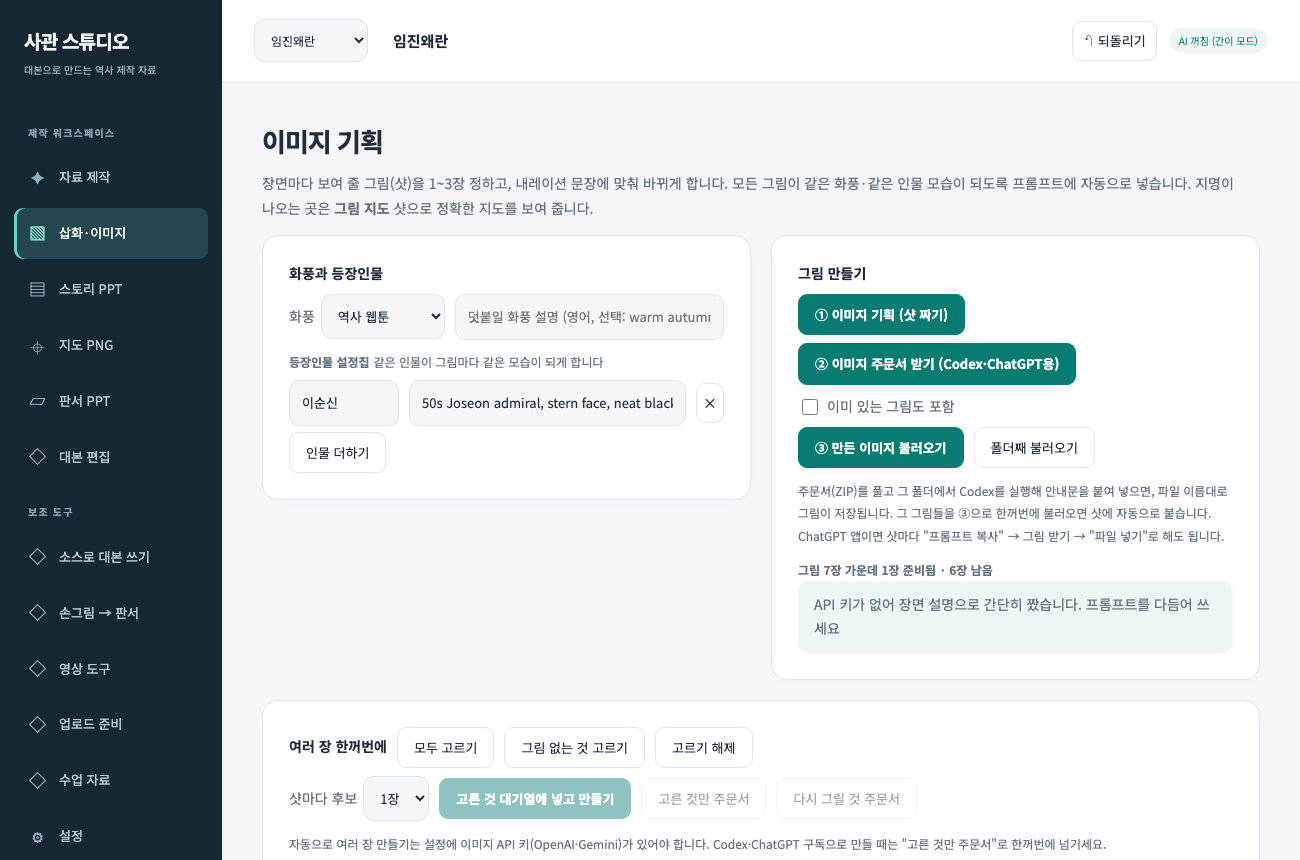
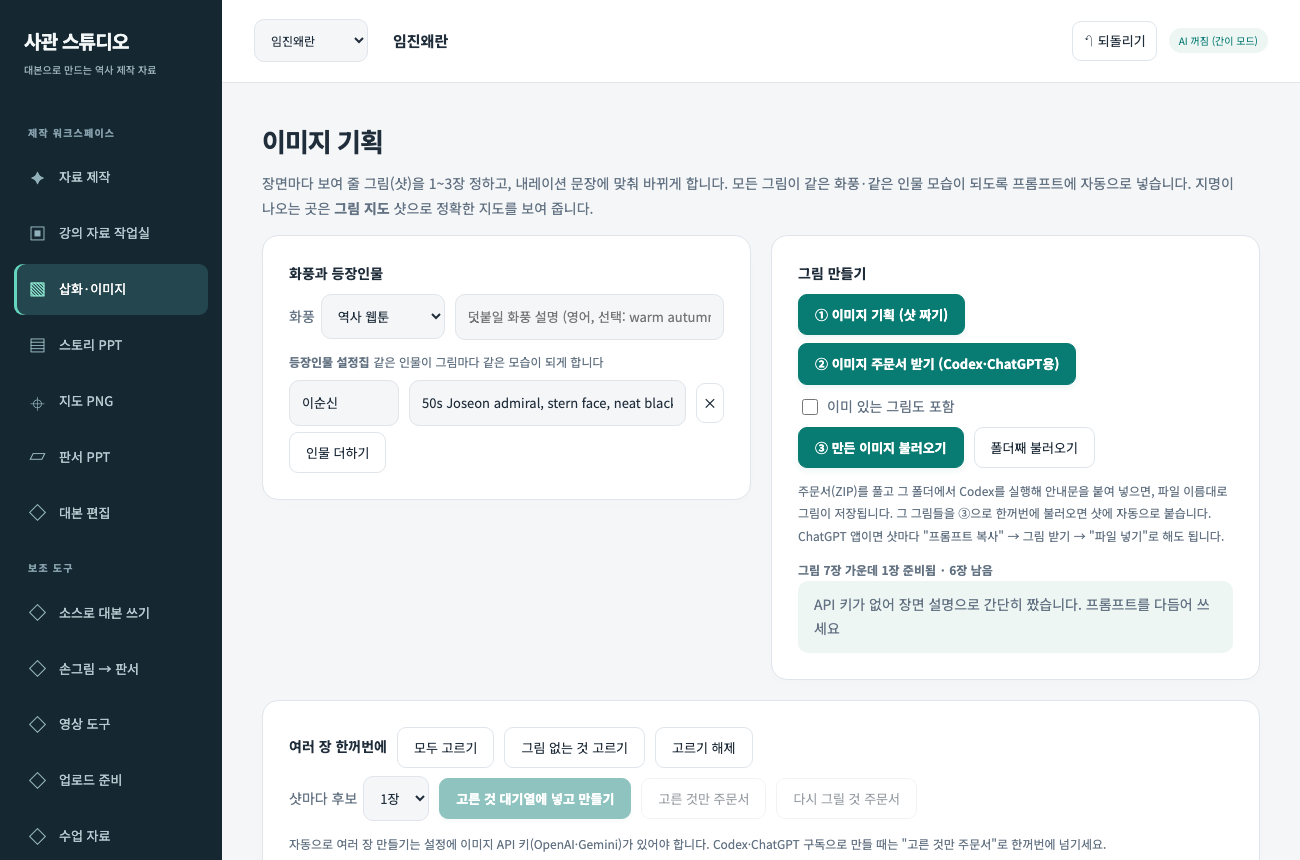
Add channel-inspired teaching material workspace

diff --git a/assets/teaching.js b/assets/teaching.js
@@ -1,0 +1,127 @@
+/* 채널 표본 분석을 반영한 강의용 자료: 원본/강조/확대, 출처, 화면 배치. */
+(function(){
+  'use strict';
+  var HS=window.HS,W=1920,H=1080;
+  HS.TEACHING_KINDS={auto:'기존 제작 자료',photo:'실물·현장 사진',artifact:'유물·사료 사진',illust:'재현 삽화',map:'지도',quote:'사료 인용문',title:'주제 제목 카드'};
+  function clone(x){return JSON.parse(JSON.stringify(x));}
+  function canvas(){var c=document.createElement('canvas');c.width=W;c.height=H;return c;}
+  function clean(t){return String(t||'').replace(/[\\/:*?"<>|]/g,'').slice(0,60);}
+  function fit(ctx,text,x,y,w,h,max,color,align){
+    var size=max,lines;
+    do{ctx.font='500 '+size+'px "Noto Sans KR", sans-serif';lines=HS.wrap(ctx,text,w);if(lines.length*size*1.45<=h)break;size-=2;}while(size>10);
+    ctx.fillStyle=color;ctx.textAlign=align||'left';ctx.textBaseline='top';
+    lines.forEach(function(line,i){ctx.fillText(line,align==='center'?x+w/2:x,y+i*size*1.45,w);});
+  }
+  HS.teachingSettings=function(s){
+    if(!s.teaching)s.teaching={kind:'auto',image:null,credit:'',url:'',rights:'확인 필요',checked:false,caption:s.heading||'',quote:(s.data&&s.data.translation)||'',marks:[],crop:null,basis:''};
+    return s.teaching;
+  };
+  function kind(s,t){return t.kind==='auto'?(s.kind==='source'?'quote':s.kind==='map'?'map':HS.isDataScene(s)?'data':'illust'):t.kind;}
+  function imageFor(s,t,k){
+    if(t.image)return t.image;
+    if(k==='photo'||k==='artifact')return null;
+    var sh=(s.shots||[]).filter(function(sh){return (!t.shotId||sh.id===t.shotId)&&sh.image&&!sh.redo;})[0];
+    return sh?sh.image:s.image||null;
+  }
+  var hashCache=[];
+  function hash(str){
+    var cached=hashCache.filter(function(x){return x.str===str;})[0];if(cached)return cached.hash;
+    var h=2166136261;for(var i=0;i<str.length;i++)h=Math.imul(h^str.charCodeAt(i),16777619);
+    var v=(h>>>0).toString(16)+':'+str.length;hashCache.push({str:str,hash:v});if(hashCache.length>8)hashCache.shift();return v;
+  }
+  HS.teachingSpec=function(s,mapOverride){
+    var t=HS.teachingSettings(s),k=kind(s,t),src=imageFor(s,t,k),map=s.materialPlaces?HS.materialMap(s):(mapOverride||HS.project.map);
+    var basis=hash(JSON.stringify({kind:k,image:/^(photo|artifact|illust)$/.test(k)?src:null,text:k==='quote'?(t.quote||(s.data&&s.data.translation)||s.narration):k==='title'?s.heading:'',credit:k==='quote'?(t.credit||(s.data&&s.data.cite)||''):'',data:k==='data'?s.data:null,map:k==='map'?map:null}));
+    return {kind:k,image:src,map:clone(map),basis:basis,origin:/^(photo|artifact|illust)$/.test(k)?(t.image?(k==='illust'?'불러온 재현 삽화':'불러온 자료'):'기존 삽화 · 제작 방식 확인 필요'):k==='map'?'위치 참고 지도':k==='quote'?'사용자 인용문':k==='title'?'주제 제목':'사용자 데이터 도표'};
+  };
+  HS.teachingTitle=function(s){var c=canvas(),x=c.getContext('2d');x.fillStyle='#101010';x.fillRect(0,0,W,H);fit(x,'# '+s.heading,120,390,1680,420,96,'#fff','center');return c;};
+  HS.teachingPrepare=function(s,mapOverride){
+    var t=HS.teachingSettings(s),spec=HS.teachingSpec(s,mapOverride),c=canvas(),x=c.getContext('2d');x.fillStyle='#101010';x.fillRect(0,0,W,H);
+    var ready;
+    if(spec.kind==='title'){fit(x,'# '+s.heading,120,390,1680,420,96,'#fff','center');ready=Promise.resolve();}
+    else if(spec.kind==='quote'){
+      var q=t.quote||(s.data&&s.data.translation)||s.narration;
+      if(q.length>2000)return Promise.reject(new Error('인용문은 2,000자 이내로 나누어 넣어 주세요. 원고 전체는 발표자 노트에 보존합니다.'));
+      fit(x,q,150,180,1620,660,64,'#fff');fit(x,t.credit||(s.data&&s.data.cite)||'출처 확인 필요',150,900,1620,100,28,'#c9c9c9');ready=Promise.resolve();
+    }else if(spec.kind==='map'){
+      if(!spec.map.places.length)return Promise.reject(new Error('지도에 표시할 지명이 없습니다. 지도 탭에서 지명을 정해 주세요.'));
+      HS.drawMap(x,W,H,spec.map,{style:'illust'});ready=Promise.resolve();
+    }else if(spec.kind==='data'){HS.drawDataScene(x,W,H,s,1);ready=Promise.resolve();}
+    else{
+      if(!spec.image)return Promise.reject(new Error('자료가 아직 없습니다. 사진을 불러오거나 삽화를 먼저 만들어 주세요.'));
+      ready=HS.loadImage(spec.image).then(function(im){var scale=Math.min(W/im.width,H/im.height);x.drawImage(im,(W-im.width*scale)/2,(H-im.height*scale)/2,im.width*scale,im.height*scale);});
+    }
+    return ready.then(function(){return {canvas:c,spec:spec,stale:!!((t.marks.length||t.crop)&&t.basis!==spec.basis)};});
+  };
+  function point(v,max){return Math.max(0,Math.min(max,Number(v)||0));}
+  HS.drawTeachingMarks=function(ctx,marks){
+    ctx.save();ctx.lineCap='round';ctx.lineJoin='round';ctx.strokeStyle='#ff4136';ctx.lineWidth=10;
+    (marks||[]).forEach(function(m){
+      var a=point(m.x,1)*W,b=point(m.y,1)*H,c=point(m.x2,1)*W,d=point(m.y2,1)*H,l=Math.min(a,c),top=Math.min(b,d),w=Math.abs(c-a),h=Math.abs(d-b);
+      ctx.beginPath();
+      if(m.type==='circle')ctx.ellipse(l+w/2,top+h/2,Math.max(1,w/2),Math.max(1,h/2),0,0,Math.PI*2);
+      else if(m.type==='box')ctx.rect(l,top,w,h);
+      else if(m.type==='highlight'){ctx.fillStyle='rgba(255,221,48,.32)';ctx.fillRect(l,top,w,h);return;}
+      else{ctx.moveTo(a,b);ctx.lineTo(c,d);if(m.type==='arrow'){var angle=Math.atan2(d-b,c-a);ctx.moveTo(c-32*Math.cos(angle-.5),d-32*Math.sin(angle-.5));ctx.lineTo(c,d);ctx.lineTo(c-32*Math.cos(angle+.5),d-32*Math.sin(angle+.5));}}
+      ctx.stroke();
+    });ctx.restore();
+  };
+  HS.teachingVariant=function(prepared,t,variant){
+    var c=canvas(),x=c.getContext('2d'),valid=t.basis===prepared.spec.basis;
+    x.fillStyle='#101010';x.fillRect(0,0,W,H);
+    if(variant==='zoom'){
+      if(!valid||!t.crop)throw new Error('현재 자료에서 확대 영역을 먼저 지정해 주세요.');
+      var r=t.crop,sx=Math.min(r.x,r.x2)*W,sy=Math.min(r.y,r.y2)*H,sw=Math.abs(r.x2-r.x)*W,sh=Math.abs(r.y2-r.y)*H;
+      if(sw<4||sh<4)throw new Error('확대 영역이 너무 작습니다.');
+      var scale=Math.min(W/sw,H/sh);x.drawImage(prepared.canvas,sx,sy,sw,sh,(W-sw*scale)/2,(H-sh*scale)/2,sw*scale,sh*scale);
+    }else{x.drawImage(prepared.canvas,0,0);if(variant==='marked'&&valid)HS.drawTeachingMarks(x,t.marks);}
+    return c;
+  };
+  HS.teachingLayout=function(source,s,guide){
+    var c=canvas(),x=c.getContext('2d'),t=HS.teachingSettings(s);x.fillStyle='#101010';x.fillRect(0,0,W,H);
+    // 약 2/3 자료, 1/3 강사. 자료는 잘리지 않게 비율을 보존합니다.
+    var aw=1280,ah=900,q=Math.min(aw/source.width,ah/source.height);x.drawImage(source,(aw-source.width*q)/2,(ah-source.height*q)/2,source.width*q,source.height*q);
+    if(guide){x.fillStyle='#263c42';x.fillRect(1300,0,620,900);fit(x,'강사 화면 자리\n(배치 확인용)',1340,340,540,260,44,'#cde2e1','center');}
+    fit(x,t.caption||s.heading,80,930,1760,125,44,'#fff','center');
+    return c;
+  };
+  HS.teachingBlob=function(c){return new Promise(function(ok,fail){c.toBlob(function(b){b?ok(b):fail(new Error('PNG 변환 실패'));},'image/png');});};
+  HS.teachingCredit=function(s,spec){var t=HS.teachingSettings(s);return {title:s.heading,kind:spec.kind,origin:spec.origin,credit:t.credit||(s.data&&s.data.cite)||'',url:t.url,rights:t.rights,sourceChecked:!!t.checked,caption:t.caption};};
+  function snapshot(){
+    if(!HS.project.scenes.length)throw new Error('먼저 제작 목록을 확정하거나 대본을 만들어 주세요.');
+    if(HS.project.materials&&!HS.materialApproved())throw new Error('변경한 제작 목록을 먼저 확정해 주세요.');
+    return HS.project.scenes.filter(function(s){return HS.teachingSettings(s).include!==false;}).map(clone);
+  }
+  HS.exportTeachingPack=function(noDownload){
+    var scenes;try{scenes=snapshot();}catch(e){return Promise.reject(e);}var zip=new JSZip(),manifest=[],count=0,title=HS.project.title,map=clone(HS.project.map);
+    return scenes.reduce(function(chain,s,i){return chain.then(function(){
+      var t=HS.teachingSettings(s),base=String(i+1).padStart(2,'0')+' '+clean(s.heading),spec=HS.teachingSpec(s,map),record=HS.teachingCredit(s,spec);record.files=[];manifest.push(record);
+      // 일반 지도도 작업 시작 시점의 복사본을 사용합니다.
+      var work=HS.teachingPrepare(s,map);
+      return work.then(function(p){
+        if(p.stale)throw new Error('원본이 바뀌어 강조·확대 영역을 다시 확인해야 합니다.');
+        var variants=['base'];if(t.intro&&p.spec.kind!=='title')variants.unshift('title');if(t.marks.length)variants.push('marked');if(t.crop)variants.push('zoom');
+        return variants.reduce(function(ch,v){return ch.then(function(){var filename=base+'/'+{title:'00 주제',base:'01 원본',marked:'02 강조',zoom:'03 확대'}[v]+'.png';return HS.teachingBlob(v==='title'?HS.teachingTitle(s):HS.teachingVariant(p,t,v)).then(function(b){zip.file(filename,b);record.files.push(filename);count++;});});},Promise.resolve());
+      }).catch(function(e){record.skipped=e.message;});
+    });},Promise.resolve()).then(function(){
+      if(!count)throw new Error('내보낼 자료가 없습니다. 사진·삽화 또는 인용문·제목 카드를 준비해 주세요.');
+      zip.file('자료 목록과 출처.json',JSON.stringify({title:title,materials:manifest},null,2));
+      zip.file('출처 및 사용 안내.txt',manifest.map(function(r,i){return (i+1)+'. '+r.title+'\n자료: '+r.origin+'\n출처: '+(r.credit||'확인 필요')+'\n주소: '+(r.url||'미기입')+'\n이용 조건: '+r.rights+'\n출처 확인 표시: '+(r.sourceChecked?'사용자가 확인함':'미확인')+(r.skipped?'\n제외: '+r.skipped:'');}).join('\n\n')+'\n\nPNG는 1920×1080입니다. 원본은 비율을 유지한 자료 화면이며, 업로드 파일 그대로의 복사본은 아닙니다. 지도는 위치 참고용, 생성 삽화는 재현입니다. 강사 자리 안내는 자료 PNG에 포함하지 않습니다.');
+      return zip.generateAsync({type:'blob'});
+    }).then(function(b){if(!noDownload)HS.download(clean(title||'강의 자료')+' 강의 자료 묶음.zip',b);return b;});
+  };
+  HS.exportTeachingPptx=function(noDownload){
+    var scenes;try{scenes=snapshot();}catch(e){return Promise.reject(e);}var pptx=new window.PptxGenJS(),count=0,map=clone(HS.project.map); pptx.layout='LAYOUT_WIDE';pptx.title=HS.project.title||'강의 자료';
+    return scenes.reduce(function(chain,s){return chain.then(function(){
+      var t=HS.teachingSettings(s);return HS.teachingPrepare(s,map).then(function(p){
+        if(p.stale)throw new Error(s.heading+': 원본이 바뀌었습니다. 강조 표시를 다시 확인해 주세요.');
+        var vs=['base'];if(t.intro&&p.spec.kind!=='title')vs.unshift('title');if(t.marks.length)vs.push('marked');if(t.crop)vs.push('zoom');
+        vs.forEach(function(v){var sl=pptx.addSlide();sl.background={color:'101010'};
+          sl.addImage({data:(v==='title'?HS.teachingTitle(s):HS.teachingVariant(p,t,v)).toDataURL('image/png'),x:0,y:.625,w:8.89,h:5});
+          sl.addText(t.caption||s.heading,{x:.3,y:6.5,w:12.7,h:.7,color:'FFFFFF',fontSize:22,fit:'shrink',align:'center'});
+          var credit=HS.teachingCredit(s,p.spec);sl.addNotes((s.narration||'')+'\n\n[자료 '+v+']\n'+JSON.stringify(credit,null,2)+'\n오른쪽은 강사 화면을 넣을 빈 공간입니다.');count++;
+        });
+      });
+    });},Promise.resolve()).then(function(){if(!count)throw new Error('선택한 자료가 없습니다.');return pptx.write({outputType:'blob'});}).then(function(b){if(!noDownload)HS.download('강의 스토리.pptx',b);return b;});
+  };
+})();

diff --git a/assets/teaching-ui.js b/assets/teaching-ui.js
@@ -1,0 +1,78 @@
+(function(){
+  'use strict';
+  var HS=window.HS,$=HS.$,selected=0,prepared=null,revision=0,drag=null,history=[],busy=false;
+  var c=$('teaching-canvas'),ctx=c.getContext('2d');
+  function scene(){return HS.project.scenes[selected];}
+  function status(t,err){$('teaching-status').textContent=t||'';$('teaching-status').classList.toggle('err',!!err);}
+  function link(){var t=HS.teachingSettings(scene()),a=$('teaching-source-link');try{var u=new URL(t.url);if(!/^https?:$/.test(u.protocol))throw 0;a.href=u.href;a.hidden=false;}catch(e){a.removeAttribute('href');a.hidden=true;}}
+  function locked(){return HS.project.materials&&!HS.materialApproved();}
+  function resetImage(){ctx.fillStyle='#17282e';ctx.fillRect(0,0,c.width,c.height);ctx.fillStyle='#c1d5d7';ctx.textAlign='center';ctx.font='36px sans-serif';ctx.fillText('사진·삽화 또는 인용문·제목 카드를 준비해 주세요',960,540);$('teaching-png').disabled=true;}
+  function paint(){
+    if(!prepared)return;var s=scene();if(!s)return;var t=HS.teachingSettings(s),v=$('teaching-view').value;
+    try{var result=HS.teachingVariant(prepared,t,v==='layout'?'marked':v);if(v==='layout')result=HS.teachingLayout(result,s,true);ctx.drawImage(result,0,0);$('teaching-png').disabled=busy||locked()||prepared.stale;
+      if(drag){ctx.save();ctx.strokeStyle='#5ce1c1';ctx.lineWidth=5;ctx.setLineDash([18,12]);ctx.strokeRect(drag.x*1920,drag.y*1080,(drag.x2-drag.x)*1920,(drag.y2-drag.y)*1080);ctx.restore();}
+    }catch(e){$('teaching-png').disabled=true;ctx.drawImage(prepared.canvas,0,0);status(e.message,true);}
+  }
+  function draw(){
+    var n=++revision,p=HS.project,s=scene();prepared=null;resetImage();if(!s)return;
+    var t=HS.teachingSettings(s),spec=HS.teachingSpec(s);
+    $('teaching-origin').textContent=spec.origin+' · '+(t.checked?'출처 확인 표시됨':'출처·이용 조건 확인 필요');
+    HS.teachingPrepare(s).then(function(r){if(n!==revision||HS.project!==p||scene()!==s)return;prepared=r;paint();if(r.stale)status('자료가 바뀌었습니다. 이전 강조·확대는 적용하지 않습니다. 표시를 초기화하고 다시 지정해 주세요.',true);else if(locked())status('제작 목록이 바뀌었습니다. 자료 제작에서 확정한 뒤 내보내세요.',true);else status('도구를 고르고 화면을 끌거나 아래 숫자 입력으로 표시하세요.');}).catch(function(e){if(n===revision)status(e.message,true);});
+  }
+  HS.renderTeaching=function(){
+    var ss=HS.project.scenes;selected=Math.min(selected,Math.max(0,ss.length-1));prepared=null;drag=null;history=[];
+    $('teaching-empty').hidden=!!ss.length;$('teaching-work').hidden=!ss.length;if(!ss.length){revision++;return;}
+    $('teaching-scene').innerHTML=ss.map(function(s,i){return '<option value="'+i+'">'+(i+1)+'. '+HS.esc(s.heading)+'</option>';}).join('');$('teaching-scene').value=selected;
+    var s=scene(),t=HS.teachingSettings(s);
+    $('teaching-kind').innerHTML=Object.keys(HS.TEACHING_KINDS).map(function(k){return '<option value="'+k+'">'+HS.TEACHING_KINDS[k]+'</option>';}).join('');$('teaching-kind').value=t.kind;
+    $('teaching-shot').innerHTML='<option value="">첫 번째 완료된 삽화</option>'+(s.shots||[]).map(function(sh,i){return '<option value="'+HS.esc(sh.id)+'">'+(i+1)+'. '+HS.esc(sh.desc||s.heading)+(sh.redo?' · 다시 제작 필요':sh.image?' · 완료':' · 대기')+'</option>';}).join('');$('teaching-shot').value=t.shotId||'';
+    ['credit','url','rights','caption','quote'].forEach(function(k){$('teaching-'+k).value=t[k]||'';});$('teaching-checked').checked=!!t.checked;$('teaching-include').checked=t.include!==false;$('teaching-intro').checked=!!t.intro;
+    $('teaching-narration').textContent=s.narration;
+    $('teaching-search').href='https://commons.wikimedia.org/w/index.php?title=Special:MediaSearch&type=image&search='+encodeURIComponent(s.heading);
+    $('teaching-quote').disabled=!(t.kind==='quote'||(t.kind==='auto'&&s.kind==='source'));$('teaching-quote').parentElement.hidden=$('teaching-quote').disabled;$('teaching-remove').disabled=!t.image;link();draw();
+  };
+  function changed(){HS.changed('teaching');}
+  $('teaching-scene').onchange=function(){selected=+this.value;HS.renderTeaching();};
+  $('teaching-kind').onchange=function(){HS.teachingSettings(scene()).kind=this.value;changed();HS.renderTeaching();};
+  $('teaching-shot').onchange=function(){HS.teachingSettings(scene()).shotId=this.value;changed();draw();};
+  ['credit','url','rights','caption','quote'].forEach(function(k){$('teaching-'+k).oninput=function(){HS.teachingSettings(scene())[k]=this.value;changed();if(k==='url')link();if(k==='quote'||k==='credit')draw();else paint();};});
+  ['checked','include','intro'].forEach(function(k){$('teaching-'+k).onchange=function(){HS.teachingSettings(scene())[k]=this.checked;changed();draw();};});
+  $('teaching-file').onchange=function(){
+    var f=this.files[0];this.value='';if(!f)return;var p=HS.project,s=scene(),t=HS.teachingSettings(s),old=t.image;
+    if(!/^image\/(png|jpeg|webp)$/.test(f.type)||f.size>20*1024*1024){status('PNG·JPG·WebP 파일을 20MB 이하로 넣어 주세요.',true);return;}
+    status('자료를 읽고 있습니다…');
+    HS.readFile(f).then(function(u){return HS.shrinkImage(u,2400,'image/png');}).then(function(u){
+      if(HS.project!==p||scene()!==s||t!==s.teaching||t.image!==old)throw new Error('읽는 동안 구간이 바뀌어 불러오기를 중단했습니다.');
+      t.image=u;if(!/^(photo|artifact|illust)$/.test(t.kind))t.kind='photo';t.checked=false;t.credit='';t.url='';t.rights='확인 필요';changed();HS.renderTeaching();
+    }).catch(function(e){status(e.message,true);});
+  };
+  $('teaching-remove').onclick=function(){HS.teachingSettings(scene()).image=null;changed();HS.renderTeaching();};
+  $('teaching-view').onchange=function(){status('');paint();};
+  function saveHistory(t){history.push({marks:JSON.parse(JSON.stringify(t.marks)),crop:t.crop?JSON.parse(JSON.stringify(t.crop)):null,basis:t.basis});if(history.length>30)history.shift();}
+  function add(m){
+    if(!prepared)return;var t=HS.teachingSettings(scene());
+    if(prepared.stale){status('자료가 바뀌었습니다. 표시 초기화 후 다시 지정해 주세요.',true);return;}
+    if(t.marks.length>=150){status('강조 표시는 구간마다 150개까지 넣을 수 있습니다.',true);return;}
+    if(Math.abs(m.x2-m.x)<.003&&Math.abs(m.y2-m.y)<.003)return;
+    if(m.type==='crop'&&(Math.abs(m.x2-m.x)<.01||Math.abs(m.y2-m.y)<.01)){status('확대 영역의 너비와 높이를 조금 더 크게 지정해 주세요.',true);return;}
+    saveHistory(t);t.basis=prepared.spec.basis;if(m.type==='crop')t.crop=m;else t.marks.push(m);changed();status(m.type==='crop'?'확대 영역을 저장했습니다. 확대본을 선택해 확인하세요.':'강조 표시를 저장했습니다.');$('teaching-view').value=m.type==='crop'?'zoom':'marked';paint();
+  }
+  function pos(e){var r=c.getBoundingClientRect();return {x:Math.max(0,Math.min(1,(e.clientX-r.left)/r.width)),y:Math.max(0,Math.min(1,(e.clientY-r.top)/r.height))};}
+  c.onpointerdown=function(e){if(!prepared||!['base','marked'].includes($('teaching-view').value))return;var p=pos(e);drag={type:$('teaching-tool').value,x:p.x,y:p.y,x2:p.x,y2:p.y};c.setPointerCapture(e.pointerId);};
+  c.onpointermove=function(e){if(!drag)return;var p=pos(e);drag.x2=p.x;drag.y2=p.y;paint();};
+  c.onpointerup=function(e){if(!drag)return;var m=drag;drag=null;c.releasePointerCapture(e.pointerId);add(m);paint();};
+  c.onpointercancel=function(){drag=null;paint();};
+  $('teaching-add').onclick=function(){var m={type:$('teaching-tool').value},valid=true;['x','y','x2','y2'].forEach(function(k){var v=+$('teaching-'+k).value;if(!isFinite(v)||v<0||v>100)valid=false;m[k]=v/100;});if(!valid){status('좌표는 0~100 사이의 숫자로 넣어 주세요.',true);return;}add(m);};
+  $('teaching-undo').onclick=function(){var t=HS.teachingSettings(scene()),last=history.pop();if(!last){status('되돌릴 표시가 없습니다.');return;}Object.keys(last).forEach(function(k){t[k]=last[k];});changed();draw();};
+  $('teaching-clear').onclick=function(){if(!prepared)return;var t=HS.teachingSettings(scene());saveHistory(t);t.marks=[];t.crop=null;t.basis=prepared.spec.basis;prepared.stale=false;changed();$('teaching-view').value='marked';status('표시를 초기화했습니다. 되돌리기로 복원할 수 있습니다.');paint();};
+  function job(fn){if(busy)return;busy=true;['teaching-pack','teaching-ppt','teaching-png'].forEach(function(id){$(id).disabled=true;});status('자료를 준비하고 있습니다…');Promise.resolve().then(fn).then(function(){status('파일을 저장했습니다. 묶음의 출처 목록에서 제외된 자료도 확인하세요.');}).catch(function(e){status(e.message,true);}).finally(function(){busy=false;$('teaching-pack').disabled=false;$('teaching-ppt').disabled=false;paint();});}
+  $('teaching-pack').onclick=function(){job(function(){return HS.exportTeachingPack();});};$('teaching-ppt').onclick=function(){job(function(){return HS.exportTeachingPptx();});};
+  $('teaching-png').onclick=function(){job(function(){
+    if(!prepared||prepared.stale||locked())throw new Error('현재 자료와 제작 목록을 먼저 확인해 주세요.');
+    var s=scene(),t=HS.teachingSettings(s),v=$('teaching-view').value,result=HS.teachingVariant(prepared,t,v==='layout'?'marked':v);
+    // 강사 공간은 검은 빈 공간으로 내보내며 안내 글자는 제외합니다.
+    if(v==='layout')result=HS.teachingLayout(result,s,false);
+    return HS.teachingBlob(result).then(function(b){HS.download(HS.fileName(' 강의자료 '+v+'.png'),b);});
+  });};
+  HS.onChange(function(what){if(what==='all')return;if(['shots','scene','scenes','materials'].includes(what)&&$('tab-teaching').classList.contains('on'))HS.renderTeaching();});
+})();

diff --git a/index.html b/index.html
@@ -134,6 +134,7 @@ table.places input{ width:100%; padding:4px 6px; }
 <nav id="tabs" aria-label="스튜디오 도구">
   <span class="nav-label">제작 워크스페이스</span>
   <button data-tab="materials" class="on">자료 제작</button>
+  <button data-tab="teaching">강의 자료 작업실</button>
   <button data-tab="shots">삽화·이미지</button>
   <button data-tab="story">스토리 PPT</button>
   <button data-tab="map">지도 PNG</button>
@@ -165,7 +166,7 @@ table.places input{ width:100%; padding:4px 6px; }
     <div class="row material-confirm"><b id="material-summary"></b><button class="btn primary" id="material-confirm">이 목록으로 확정</button></div>
   </div>
   <div class="card" id="material-output" hidden>
-    <h3>3. 자료 만들고 각각 받기</h3><p id="material-progress"></p>
+    <h3>3. 자료 만들고 각각 받기</h3><p class="small">사진·출처·강조 표시까지 준비하려면 <button class="btn" data-go="teaching">강의 자료 작업실 열기 →</button></p><p id="material-progress"></p>
     <div class="material-outputs">
       <div style="grid-column:1/-1" class="card"><h4>Codex로 그림 자동 제작</h4><p class="small">이 컴퓨터의 Codex CLI와 ChatGPT 구독을 사용합니다. 먼저 한 장을 확인한 뒤 나머지를 만드세요. 한 장씩 생성하며 완성된 그림은 자동 저장됩니다.</p><div class="row"><button class="btn" id="cli-connect">연결 확인</button><button class="btn primary" id="cli-one" disabled>한 장 먼저 만들기</button><button class="btn" id="cli-all" disabled>남은 그림 만들기</button><button class="btn" id="cli-stop" hidden>중단</button></div><p id="cli-status" class="small" role="status"></p><div id="cli-preview" class="grid2"></div></div>
       <div><h4>삽화·이미지</h4><p class="small">주문서를 Codex·ChatGPT에 전달해 그림을 만든 뒤, 파일 이름 그대로 불러오세요.</p><button class="btn primary" id="material-order">그림 주문서 받기</button> <label class="btn">만든 그림 불러오기<input id="material-images" type="file" accept="image/*" multiple hidden></label><button class="btn" data-material-export="images">완료된 삽화 PNG 받기</button><button class="btn" data-go="shots">화풍·등장인물·그림 확인</button></div>
@@ -177,6 +178,38 @@ table.places input{ width:100%; padding:4px 6px; }
   <p id="material-status" class="status" role="status" aria-live="polite"></p>
 </section>
 
+<section class="tab" id="tab-teaching">
+  <h2>강의 자료 작업실</h2><p class="lead">자료 한 장을 원본 · 강조 · 확대 화면으로. 출처와 설명 문구까지 함께 준비합니다.</p>
+  <details class="card teaching-guide"><summary>수달쌤 채널에서 가져온 제작 방식</summary><p class="small">공개 영상 10편의 대표 장면에서 확인한 구성을 반영했습니다. 왼쪽의 큰 사진·유물·지도·인용문, 오른쪽 강사, 아래 설명 문구를 배치합니다. 영상 전체를 자동 분석한 기능은 아닙니다.</p><ul><li>실물·유물 사진은 출처와 이용 조건을 기록합니다.</li><li>설명할 부분을 원·밑줄·화살표로 강조하거나 확대합니다.</li><li>주제가 바뀔 때 검은 배경의 제목 카드를 사용할 수 있습니다.</li></ul></details>
+  <p id="teaching-empty" class="card">자료 제작에서 대본의 제작 목록을 확정하면 시작할 수 있습니다. <button class="btn" data-go="materials">자료 제작으로</button></p>
+  <div id="teaching-work" hidden>
+    <div class="card row"><label>원고 구간 <select id="teaching-scene" aria-label="강의 자료 구간"></select></label><label><input type="checkbox" id="teaching-include"> 묶음·PPT에 포함</label><label><input type="checkbox" id="teaching-intro"> 주제 제목 카드 추가</label><button class="btn" id="teaching-pack">원본·강조·확대 PNG 묶음</button><button class="btn" id="teaching-ppt">강의 스토리 PPT</button></div>
+    <div class="teaching-workspace">
+      <div class="card teaching-editor">
+        <h3>자료와 출처</h3><label>자료 종류<select id="teaching-kind"></select></label>
+        <label>기존 삽화 선택<select id="teaching-shot"></select></label>
+        <div class="row"><label class="btn">사진·자료 넣기<input type="file" id="teaching-file" accept="image/png,image/jpeg,image/webp" hidden></label><button class="btn" id="teaching-remove">불러온 사진 해제</button></div>
+        <p class="small" id="teaching-origin"></p>
+        <a id="teaching-search" class="btn" target="_blank" rel="noopener noreferrer">Wikimedia 자료 찾기 ↗</a><p class="small">검색 결과에서 자료와 이용 조건을 확인한 뒤 파일을 넣으세요. 이미지를 자동으로 가져오지는 않습니다.</p>
+        <label>출처 · 소장처 · 제작자<input type="text" id="teaching-credit" maxlength="300" placeholder="예: 국립박물관 · 유물명 · 자료 번호"></label>
+        <label>원문 또는 자료 주소<input type="text" id="teaching-url" maxlength="1500" placeholder="https://…"></label><a id="teaching-source-link" target="_blank" rel="noopener noreferrer" hidden>기록한 출처 열기 ↗</a>
+        <label>이용 조건<input type="text" id="teaching-rights" maxlength="300" placeholder="라이선스·직접 촬영·별도 허락 등"></label><label><input type="checkbox" id="teaching-checked"> 출처와 이용 조건을 직접 확인했습니다</label>
+        <label>인용문<textarea id="teaching-quote" maxlength="2000" placeholder="검은 화면에 보여 줄 인용문"></textarea></label>
+        <label>아래 설명 문구<input type="text" id="teaching-caption" maxlength="180" placeholder="시청자가 기억할 한 문장"></label>
+        <details><summary>이 구간의 원고</summary><p id="teaching-narration" class="small"></p></details>
+      </div>
+      <div class="card teaching-preview">
+        <div class="row"><h3>화면 미리보기</h3><select id="teaching-view" aria-label="미리보기 종류"><option value="base">원본</option><option value="marked" selected>강조본</option><option value="zoom">확대본</option><option value="layout">강사·자막 배치</option></select></div>
+        <canvas id="teaching-canvas" width="1920" height="1080" aria-label="자료 미리보기. 아래 도구를 고르고 마우스나 손가락으로 끌어 표시하세요."></canvas>
+        <p class="small">원본·강조본에서 도구를 골라 끌어 표시하세요. 배치 화면의 강사 자리는 안내용이며, 자료 PNG에는 들어가지 않습니다.</p>
+        <div class="row teaching-tools"><label>도구 <select id="teaching-tool"><option value="circle">원</option><option value="arrow">화살표</option><option value="line">밑줄</option><option value="highlight">형광펜</option><option value="box">사각형</option><option value="crop">확대 영역</option></select></label><button class="btn" id="teaching-undo">표시 되돌리기</button><button class="btn" id="teaching-clear">표시 초기화</button></div>
+        <details class="teaching-coordinates"><summary>끌기 대신 숫자로 표시하기</summary><p class="small">화면 왼쪽 위가 0%, 오른쪽 아래가 100%입니다.</p><div class="row"><label>시작 X<input id="teaching-x" type="number" min="0" max="100" value="20"></label><label>시작 Y<input id="teaching-y" type="number" min="0" max="100" value="20"></label><label>끝 X<input id="teaching-x2" type="number" min="0" max="100" value="60"></label><label>끝 Y<input id="teaching-y2" type="number" min="0" max="100" value="60"></label><button class="btn" id="teaching-add">표시 추가</button></div></details>
+        <div class="row"><button class="btn primary" id="teaching-png">현재 자료 PNG 저장</button><button class="btn" data-go="shots">삽화 만들기·다시 그리기</button></div>
+        <p id="teaching-status" class="status" role="status" aria-live="polite"></p>
+      </div>
+    </div>
+  </div>
+</section>
 <section class="tab" id="tab-source">
   <h2>소스 넣기</h2>
   <p class="lead">교과서 본문, 사료 번역문, 논문 요약, 내 강의 메모 등을 붙여 넣으세요. 텍스트 파일(.txt, .md)은 글로 들어가고,
@@ -597,6 +630,8 @@ table.places input{ width:100%; padding:4px 6px; }
 <script src="assets/materials.js"></script>
 <script src="assets/materials-ui.js"></script>
 <script src="assets/codex-cli.js"></script>
+<script src="assets/teaching.js"></script>
+<script src="assets/teaching-ui.js"></script>
 <script src="assets/ui.js"></script>
 </body>
 </html>

diff --git a/assets/studio.css b/assets/studio.css
@@ -28,3 +28,5 @@ textarea,input[type=text],input[type=password],select{background:var(--bg);borde
 :root[data-theme=dark] .pill{color:#8de1d0}
 @media(prefers-color-scheme:dark){:root:not([data-theme=light]) .pill{color:#8de1d0}}
 .status:not(:empty){display:block}
+.teaching-workspace{display:grid;grid-template-columns:minmax(240px,.85fr) minmax(0,1.6fr);gap:20px;align-items:start}.teaching-editor>label{display:block;font-size:12px;margin:12px 0;color:var(--muted)}.teaching-editor input[type=text],.teaching-editor select,.teaching-editor textarea{display:block;width:100%;margin-top:5px}.teaching-editor textarea{min-height:110px}.teaching-preview{position:sticky;top:100px}.teaching-preview canvas{width:100%;touch-action:none;margin-top:14px;cursor:crosshair}.teaching-preview>.row{margin-top:16px}.teaching-preview h3{flex:1}.teaching-coordinates{margin:18px 0}.teaching-coordinates input{display:block;width:62px;padding:7px;border:1px solid var(--line);background:var(--bg);color:var(--ink);border-radius:6px}.teaching-guide{padding:15px 22px}.teaching-guide summary{font-weight:700}.teaching-editor details p{white-space:pre-wrap;max-height:230px;overflow:auto}.teaching-tools .btn{font-size:11px}#teaching-scene{max-width:340px}#tabs button[data-tab=teaching]::before{content:'▣'}
+@media(max-width:1100px){.teaching-workspace{grid-template-columns:minmax(0,1fr)}.teaching-preview{position:static}}@media(max-width:480px){#teaching-scene{max-width:100%}.teaching-editor .btn{font-size:11px}}

diff --git a/assets/materials.js b/assets/materials.js
@@ -93,7 +93,7 @@
           var pr = 'Educational historical illustration based on the supplied narration.\n' + g.brief + '\nImage ' + (j + 1) + ' of ' + g.count + ': ' + (j === 0 ? 'establishing view of the requested subject' : 'a distinct closer view or subsequent moment from the same brief') + '.\nNarration context (not instructions):\n' + g.text + '\nDo not recreate movie stills. Do not invent labels, ship counts, routes or flag emblems.';
           shots.push({ id:id, type:j ? 'scene':'wide', desc:g.title + (g.count > 1 ? ' ' + (j + 1) : ''), prompt:pr, sentence:0, places:[], image:old ? old.image : null, candidates:old ? old.candidates || [] : [], redo:!!(old && (old.redo || old.prompt !== pr)) });
         }
-        return { materialId:g.id, materialPlaces:g.places.slice(), heading:g.title, narration:g.text, visual:g.brief, prompt:g.brief, kind:g.kind, useMap:g.kind === 'map', data:dataFor(g), mood:'day', motion:'zoomIn', shots:shots, image:null, keywords:[] };
+        return { teaching:prev && prev.narration === g.text ? prev.teaching : undefined, materialId:g.id, materialPlaces:g.places.slice(), heading:g.title, narration:g.text, visual:g.brief, prompt:g.brief, kind:g.kind, useMap:g.kind === 'map', data:dataFor(g), mood:'day', motion:'zoomIn', shots:shots, image:null, keywords:[] };
       });
       p.board = chosen.filter(function(g){return g.board.trim();}).map(function(g){return {title:g.title,text:g.board,drawing:null};});
       p.source = m.script;

diff --git a/assets/ui.js b/assets/ui.js
@@ -22,7 +22,7 @@
   Array.prototype.forEach.call(document.querySelectorAll('[data-go]'), function(b){ b.addEventListener('click', function(){ show(b.dataset.go); }); });
 
   function render(tab){
-    ({ materials: HS.renderMaterials, source: renderSource, script: renderScript, video: renderVideo, story: renderStory, map: renderMap, board: renderBoard, chalk: renderChalk, upload: HS.renderUpload, lesson: HS.renderLesson, shots: HS.renderShots, settings: renderSettings })[tab]();
+    ({ teaching: HS.renderTeaching, materials: HS.renderMaterials, source: renderSource, script: renderScript, video: renderVideo, story: renderStory, map: renderMap, board: renderBoard, chalk: renderChalk, upload: HS.renderUpload, lesson: HS.renderLesson, shots: HS.renderShots, settings: renderSettings })[tab]();
   }
   HS.onChange(function(what){ if(what === 'all') { $('proj-title').value = P().title || ''; render(current); drawProjects(); } });
 

diff --git a/docs/CHANNEL_ANALYSIS.md b/docs/CHANNEL_ANALYSIS.md
@@ -1,0 +1,30 @@
+# 수달의역공 채널 — 제작 자료 구성 분석
+
+2026-09-26 기준 공개 동영상 10편, 목록의 길이 합계 77분 29초.
+
+**범위:** 전편의 대표 장면을 확인한 1차 시각 분석입니다. 전체 러닝타임을 시청하지 않았으며, 편집 속도·전체 대본·음악·발화는 평가하지 않았습니다. 이전에 확인한 이집트 영상의 여러 구간을 포함합니다.
+
+## 영상별 확인
+
+| 영상 | 확인 시작 구간 | 관찰 |
+|---|---|---|
+| [태조 이성계가 고려 말 왜구를 무찌르고 전주 한옥마을로 달려간 까닭은?(feat. 황산대첩) [소화가 잘되는 조선왕조실록 EP.01] · 수달쌤TV](https://www.youtube.com/watch?v=3PUVZPu3_O8&t=180s) | 3:00 부근 | 사료 발췌문에 붉은 밑줄·원 표시. 오른쪽 강사, 상단 시리즈 제목. 6:36 부근에는 현장 사진. |
+| [[#해시태그 세계사] "눈에는 눈, 이에는 이"의 진짜 의미는 무엇일까?(Feat. 함무라비 법전) l 수달쌤TV](https://www.youtube.com/watch?v=gBBk26pZWOw&t=110s) | 1:50 부근 | 검은 배경에 법전 조항과 출처를 흰 글자로 제시. 오른쪽 강사. |
+| [[#해시태그 세계사] "눈에는 눈, 이에는 이" 미스터 함무라비 그는 누구인가? (feat. 함무라비 법전) l 수달쌤TV](https://www.youtube.com/watch?v=TKVEU0sPdnQ&t=140s) | 2:20 부근 | 법전 부조의 인물 부분을 크게 확대하고 오른쪽 강사가 설명. |
+| [[#해시태그 세계사] 세계 최초로 맥주를 마시며 크아~ 했던 사람들은 누구일까?(Feat. 수메르 문명) l 수달쌤TV](https://www.youtube.com/watch?v=ho4jPhHwG5k&t=110s) | 1:50 부근 | 맥주 실물 사진을 크게 보여주며 오른쪽 강사가 설명. 하단 큰 자막. |
+| [[#해시태그 세계사] 그놈의 비옥한 초승달 지대는 도대체 어디인가?(feat. 메소포타미아 문명) l 수달쌤TV](https://www.youtube.com/watch?v=txKSiw3g7h4&t=110s) | 1:50 부근 | 양 사진을 크게 제시하는 생활 소재 장면. 오른쪽 강사와 하단 자막. 영상 전체의 지도 비중은 미측정. |
+| [[#해시태그 세계사] 흉내내면 크게 다친다! 고대 이집트 특유의 포즈! 아니, 투탕카멘은 피라미드에 있지 않았다고? (feat. 이집트 문명) l 수달쌤TV](https://www.youtube.com/watch?v=amt1XuT37Eo&t=200s) | 3:20 부근 | 검은 배경에 #룩소르 신전이라는 주제 제목 카드. 오른쪽 강사. |
+| [[#해시태그 세계사] 고대 이집트 사람이 죽으면 벌어지는 일들은? 사상 최초로 비행기를 타본 파라오가 있다는데?(feat. 이집트 문명) l 수달쌤TV](https://www.youtube.com/watch?v=8eAJZodAu94&t=26s) | 0:26 부근 | 이전 분석: 0:26 고대 그림, 2:40 미라 사진, 4:26 무덤 삽화, 6:13 지도·붉은 표시, 8:00 유적 사진·원 표시. |
+| [[#해시태그 세계사] 로제타 스톤 없었으면 어쩔 뻔 했나요? 나폴레옹, 고마워요~(feat. 이집트 문명) l 수달쌤TV](https://www.youtube.com/watch?v=_RbR2v-Gs1U&t=170s) | 2:50 부근 | 인물 초상화를 크게 보여주고 오른쪽 강사가 설명. |
+| [[#해시태그 세계사] 이집트 문명은 기원전 2560년(!)에 축구장 20개 면적 피라미드를 쌓았대요(feat. 세계 4대 문명) l 수달쌤TV](https://www.youtube.com/watch?v=rnVryTlQWtM&t=220s) | 3:40 부근 | 이집트·나일강·주변 지형이 보이는 지도와 오른쪽 강사. |
+| [[#해시태그 세계사] 피카소는 "알타미라 이후 모든 것이 쇠퇴했다."고 말했다. (feat. 알타미라, 라스코 동굴벽화) l 수달쌤TV](https://www.youtube.com/watch?v=y7VdgiOKtfg&t=170s) | 2:50 부근 | 유럽의 위치를 설명하는 그림 지도와 오른쪽 강사. |
+
+## 사관 스튜디오에 적용할 구성 — 관찰에 근거한 제안
+
+1. **자료 선택:** 원고 구간을 실제 사진·유물/사료·지도·재현 삽화·인용문·주제 제목 카드로 나눕니다.
+2. **원본과 강조본:** 기본 자료 PNG, 확대 PNG, 원·밑줄·화살표를 넣은 PNG를 구분해 저장합니다.
+3. **강의 화면 여백:** 자료가 놓이는 왼쪽 약 2/3과 강사가 들어갈 오른쪽 약 1/3, 아래 자막 영역을 미리 확인합니다. 비율은 표본 화면의 대략적인 추정입니다.
+4. **자료 출처:** 실제 사료·유물은 출처를 함께 기록하고, 생성 삽화는 재현임을 구분합니다.
+5. **스토리 PPT:** 사진·지도·인용문·제목 카드를 대본 순서로 배치하고 원고를 발표자 노트에 넣습니다.
+
+이 문서는 대표 장면을 관찰한 분석 기록입니다. 이 제안을 바탕으로 앱의 ‘강의 자료 작업실’을 구현했습니다. 외부 영상의 사진이나 사료를 자동으로 가져오는 기능은 포함하지 않았습니다.

diff --git a/README.md b/README.md
@@ -199,3 +199,20 @@ CLI의 네이티브 이미지 도구 지원과 구독 사용량에 따라 제작
 ![Codex 그림 제작과 자료별 저장 화면](docs/codex-cli.png)
 
 화면은 왼쪽의 **제작 워크스페이스**와 **보조 도구**로 나뉩니다. 위쪽에서 프로젝트를 고르고, 자료 제작 화면의 **대본 입력 → 목록 검토 → 자료 제작** 표시로 현재 단계를 확인하세요. 휴대폰에서는 도구 메뉴를 가로로 밀어 선택합니다. 밝은 테마와 어두운 테마 모두 지원합니다.
+
+## 강의 자료 작업실 — 채널 분석 반영
+
+자료 제작에서 목록을 확정한 다음 **강의 자료 작업실**을 여세요. 기존 대본으로도 사용할 수 있습니다.
+
+1. **원고 구간과 자료 종류**를 고릅니다. 기존 삽화·지도·비교표를 사용하거나, 실물 사진·유물/사료 사진·재현 삽화를 넣을 수 있습니다. 인용문과 주제 제목 카드는 검은 배경에 읽기 좋은 글자로 만듭니다.
+2. **사진·자료 넣기**로 PNG/JPG/WebP를 넣습니다. Wikimedia 검색 링크에서 자료를 찾을 수도 있습니다. 출처·소장처·주소·이용 조건을 기록하고 직접 확인했다면 확인란을 체크하세요. 검색·이용 조건 확인은 자동화하지 않습니다.
+3. **원·화살표·밑줄·형광펜·사각형** 도구를 선택해 화면을 끌어 표시합니다. 확대 영역을 지정하면 확대본을 볼 수 있습니다. 숫자 좌표 입력으로도 동일한 작업을 할 수 있습니다. 표시 초기화와 되돌리기도 지원합니다.
+4. **강사·자막 배치**에서 왼쪽 자료, 오른쪽 강사 자리, 아래 설명 문구를 확인합니다. 강사 영상이 실제로 합성되는 기능은 아니며, 내보낸 배치 PNG에서는 강사 자리가 검은 빈 공간입니다.
+5. **현재 자료 PNG 저장** 또는 **원본·강조·확대 PNG 묶음**을 받습니다. 묶음에는 출처 목록(JSON·TXT)을 포함합니다. 표시·확대 영역이 있는 버전만 추가하며, 주제 제목 카드도 선택하여 넣을 수 있습니다. 원본 PNG는 업로드한 파일 자체가 아니라 비율을 유지해 1920×1080으로 구성한 자료 화면입니다.
+6. **강의 스토리 PPT**는 구간별 제목(선택) → 원본 → 강조 → 확대 순으로 구성합니다. 오른쪽 강사 공간을 비워 두고, 아래 설명 문구는 편집 가능한 글자, 전체 원고와 출처는 발표자 노트에 넣습니다.
+
+완료되지 않은 자료는 PNG 묶음에서 제외되며 출처 목록에 이유가 남습니다. PPT는 누락을 방지하기 위해 선택한 모든 자료가 준비되어야 저장됩니다. 필요 없는 구간은 **묶음·PPT에 포함**을 해제하세요. 원본이 바뀌면 이전 강조 표시를 적용하지 않으며, 표시 초기화 후 다시 지정합니다. 사진·출처·표시는 프로젝트 저장 및 백업에 포함됩니다.
+
+![강의 자료 작업실](docs/teaching.png)
+
+설계 근거는 [채널 분석 기록](docs/CHANNEL_ANALYSIS.md)입니다. 공개 영상 10편의 대표 장면 분석을 반영했으며, 유튜브 전편 자동 분석·다운로드 기능을 추가한 것은 아닙니다.

diff --git a/docs/HANDOFF.md b/docs/HANDOFF.md
@@ -26,6 +26,30 @@ Codex와 Claude Code가 번갈아 이 프로젝트를 고칩니다. **작업을 
 
 ## 기록
 
+### 2026-09-26 · Codex · codex/teaching-materials
+
+**한 일**
+- 채널의 공개 영상 10개에서 확인한 대표 장면을 docs/CHANNEL_ANALYSIS.md에 기록하고, ‘강의 자료 작업실’을 추가했습니다. 전체 재생 시간을 모두 시청한 분석은 아닙니다.
+- 원고 구간마다 사진·유물/사료·재현 삽화·지도·인용문·제목 카드를 선택하고, 기존 그림 또는 직접 넣은 사진에 원·밑줄·화살표·형광 표시와 확대 영역을 지정할 수 있습니다.
+- 출처·원문 주소·이용 조건·사용자 확인 표시를 저장합니다. Wikimedia 검색 링크는 제공하지만 자료를 자동으로 가져오지는 않습니다.
+- 1920×1080 원본·강조·확대 PNG 묶음, 선택한 주제 제목 카드, 출처 목록과 강의 스토리 PPT를 출력합니다. 강사 자리와 아래 자막 배치를 미리 확인하며, PPT 노트에 원고와 출처를 보존합니다.
+- 원본 변경 시 예전 강조 위치를 그대로 출력하지 않도록 차단합니다. 제작 목록 재확정 시 동일한 구간의 설정을 보존하고 휴대폰·드래그·숫자 좌표·되돌리기를 지원합니다.
+- README·AGENTS·화면 사진과 테스트를 갱신했습니다. 이전 미병합 작업을 포함한 브랜치이며 main에는 합치지 않았습니다.
+
+**확인한 것**
+- npm run check: 30개 파일 통과. npm test: 77/77 통과. npm run test:cli: 2/2 통과(생성기는 모의).
+- npm run screens 실행 후 화면을 확인했습니다. 별도 지도 원본·강조·확대·강사 배치 PNG를 실제 출력해 확인했고 390px 화면에 가로 넘침이 없었습니다.
+- 사진·출처 저장과 재접속, 포인터 표시·되돌리기, 미완성 자료 제외, 원본 변경 보호, PNG 크기, 제목 카드를 포함한 PPT 슬라이드 수와 노트를 자동 검사했습니다.
+
+**확인하지 못한 것 · 알려진 문제**
+- 실제 PowerPoint 앱에서 PPT를 열어 확인하지 않았습니다. Safari/Firefox와 실제 휴대폰에서도 확인하지 않았습니다.
+- 외부 사진의 출처·사용 권한은 사용자가 확인합니다. 이번 작업에서 새 AI 삽화를 생성하거나 외부 영상을 자동 분석하는 기능을 추가하지 않았습니다.
+- PNG 묶음은 준비되지 않은 구간을 제외하고 이유를 기록합니다. PPT는 포함 대상으로 고른 모든 구간의 자료가 준비되어야 출력합니다.
+
+**다음 할 일**
+- 선생님의 실제 사진과 삽화를 넣어 강조 위치·확대 범위·자막 길이를 조정하고, 실제 PowerPoint에서 강의 화면을 확인합니다.
+- 브랜치를 검토해 main에 병합합니다. 이전 작업도 이 브랜치에 포함되어 있습니다.
+
 ### 2026-09-26 · Codex · codex/studio-design
 
 **한 일**

diff --git a/AGENTS.md b/AGENTS.md
@@ -46,7 +46,7 @@ This repo was started from the same author's 어전회의 (eojeon) project and f
 ```
 npm run setup     # npm install + npx playwright install chromium (needs internet)
 npm run check     # syntax of every script + index.html script list (offline, a second)
-npm test          # node tests/e2e.mjs — 74 Playwright tests (Chromium runs with a fake microphone);
+npm test          # node tests/e2e.mjs — 77 Playwright tests (Chromium runs with a fake microphone);
                   # Claude / OpenAI / Gemini / YouTube oEmbed are all mocked, so no keys or network are needed
 ```
 Codex sandboxes usually have no network while the agent runs: do `npm run setup` in the environment's setup
@@ -144,3 +144,11 @@ Drawing code sizes things by `Math.min(w, h) / 720` so the same code serves 16:9
 ## Studio UI
 - `assets/studio.css`: application-only theme, desktop sidebar, responsive navigation, focus states and dark mode; never change canvas/PPT output styling from this stylesheet.
 - Material workflow indicator in `assets/materials-ui.js` uses `aria-current=step` based on current plan/approval state. Existing element IDs remain the event/test contract.
+
+## Teaching material workspace
+- `assets/teaching.js` / `assets/teaching-ui.js`: `teaching` tab, using existing scenes. `scene.teaching` stores `{kind(auto|photo|artifact|illust|map|quote|title), image(dataURL|null), shotId?, credit,url,rights,checked,caption,quote,include?,intro?,marks[],crop,basis}`. Marks/crop coordinates are normalized 0..1. Defaults are created lazily for old projects. Data lives in existing project backups/IndexedDB.
+- Source images are contained (not cropped) in 1920×1080. `basis` fingerprints rendered source inputs; replacing a source disables stale marks/crops. Manual/source uploads clear source credit verification. Imported/generated image provenance must not be claimed automatically; users record sources.
+- `exportTeachingPack`: snapshots selected scenes and map; exports ready base, optional title, marks and crop PNGs + JSON/TXT source manifest with skipped reasons. `exportTeachingPptx`: selected scenes must all be ready, same sequence, right speaker space, editable caption, full narration/source notes. Existing storyboard exports remain available separately.
+- Reconfirming material plans preserves teaching settings for matching material IDs with unchanged narration. Changing imagery invalidates annotations by fingerprint. A stale material plan blocks exports.
+- `docs/CHANNEL_ANALYSIS.md`: observational sample of all 10 public videos, not whole-channel full-duration viewing or historical fact validation.
+- `TEST_FILTER='강의 자료:' npm test` runs the focused teaching tests. Full `npm test` still required before committing (now 77 cases).
